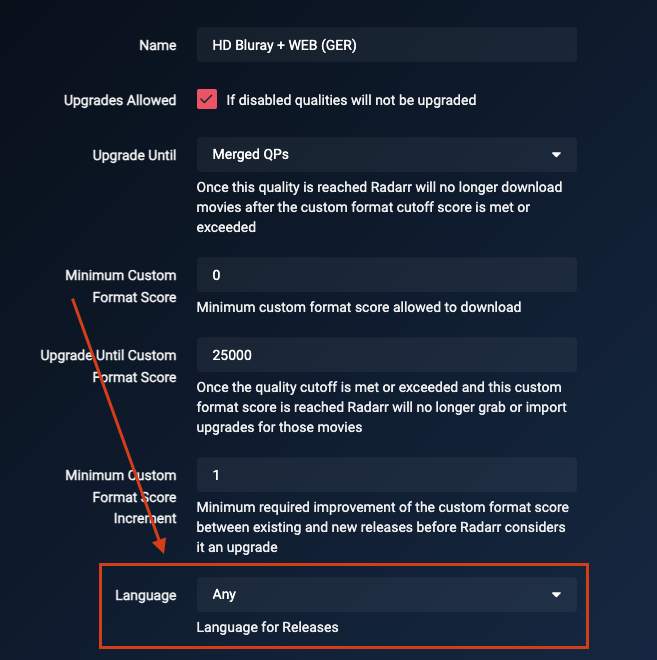
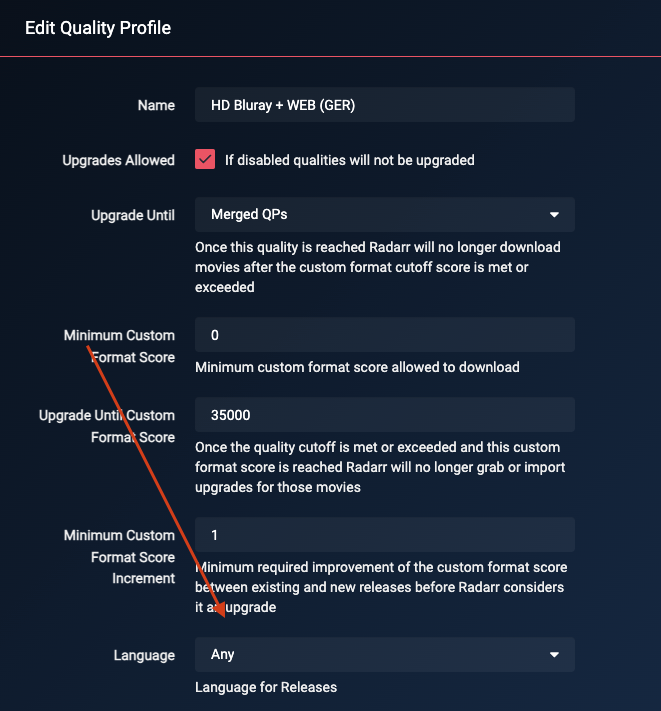
fix(starr): Increase the max custom format score of the german guide to be more than whats really actually possible (#2224)
* Fix: max custom format score to more than the actual max custom format score

* Fix: adjust scoring in the quality profile jsons

---------

diff --git a/docs/Radarr/radarr-setup-quality-profiles-german-en.md b/docs/Radarr/radarr-setup-quality-profiles-german-en.md
@@ -75,7 +75,7 @@ There are a couple of changes that are needed for German Custom Formats to work 
         Radarr supports the ISO-2 naming convention for naming movies, so replacing `{Movie CleanTitle}` with `{Movie CleanTitle:de}` will change the name to its German version.
 
 ??? abstract "Set the Maximum Custom Format Score - [Click to show/hide]"
-    To allow upgradeability to the best possible quality, we set the `Upgrade Until Custom Format Score` to `25k`, which is more than the highest reachable score.
+    To allow upgradeability to the best possible quality, we set the `Upgrade Until Custom Format Score` to `35k`, which is more than the highest reachable score.
 
     !!! tip "Tip"
         If you want to stop upgrades at a specific score, feel free to adapt this setting based on your needs.

diff --git a/docs/Sonarr/sonarr-setup-quality-profiles-german-en.md b/docs/Sonarr/sonarr-setup-quality-profiles-german-en.md
@@ -66,7 +66,7 @@ There are a couple of changes that are needed for German Custom Formats to work 
     Please have a look here: [Recommended naming scheme](/Sonarr/Sonarr-recommended-naming-scheme/){:target="_blank" rel="noopener noreferrer"}.
 
 ??? abstract "Set the Maximum Custom Format Score - [Click to show/hide]"
-    To allow upgradeability to the best possible quality, we set the `Upgrade Until Custom Format Score` to `25k`, which is more than the highest reachable score.
+    To allow upgradeability to the best possible quality, we set the `Upgrade Until Custom Format Score` to `35k`, which is more than the highest reachable score.
 
     !!! tip "Tip"
         If you want to stop upgrades at a specific score, feel free to adapt this setting based on your needs.
